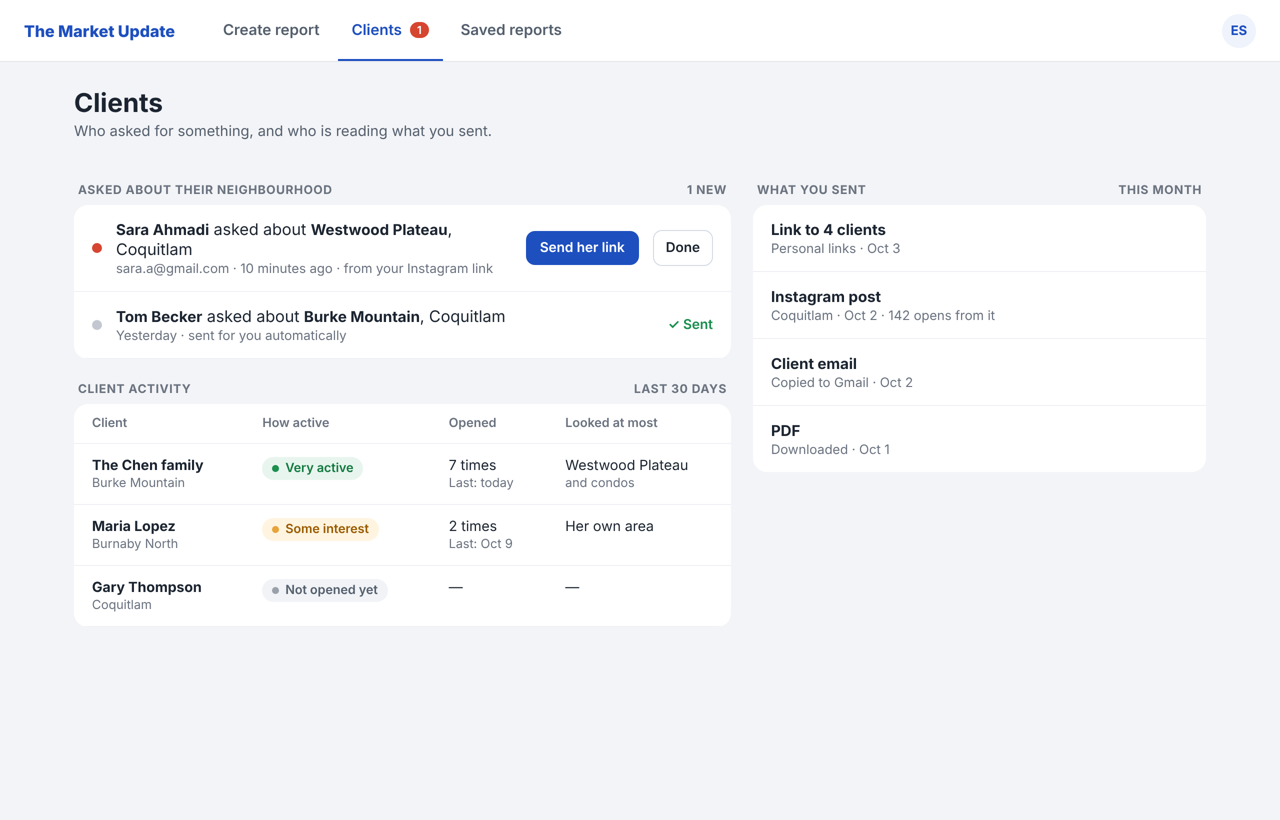
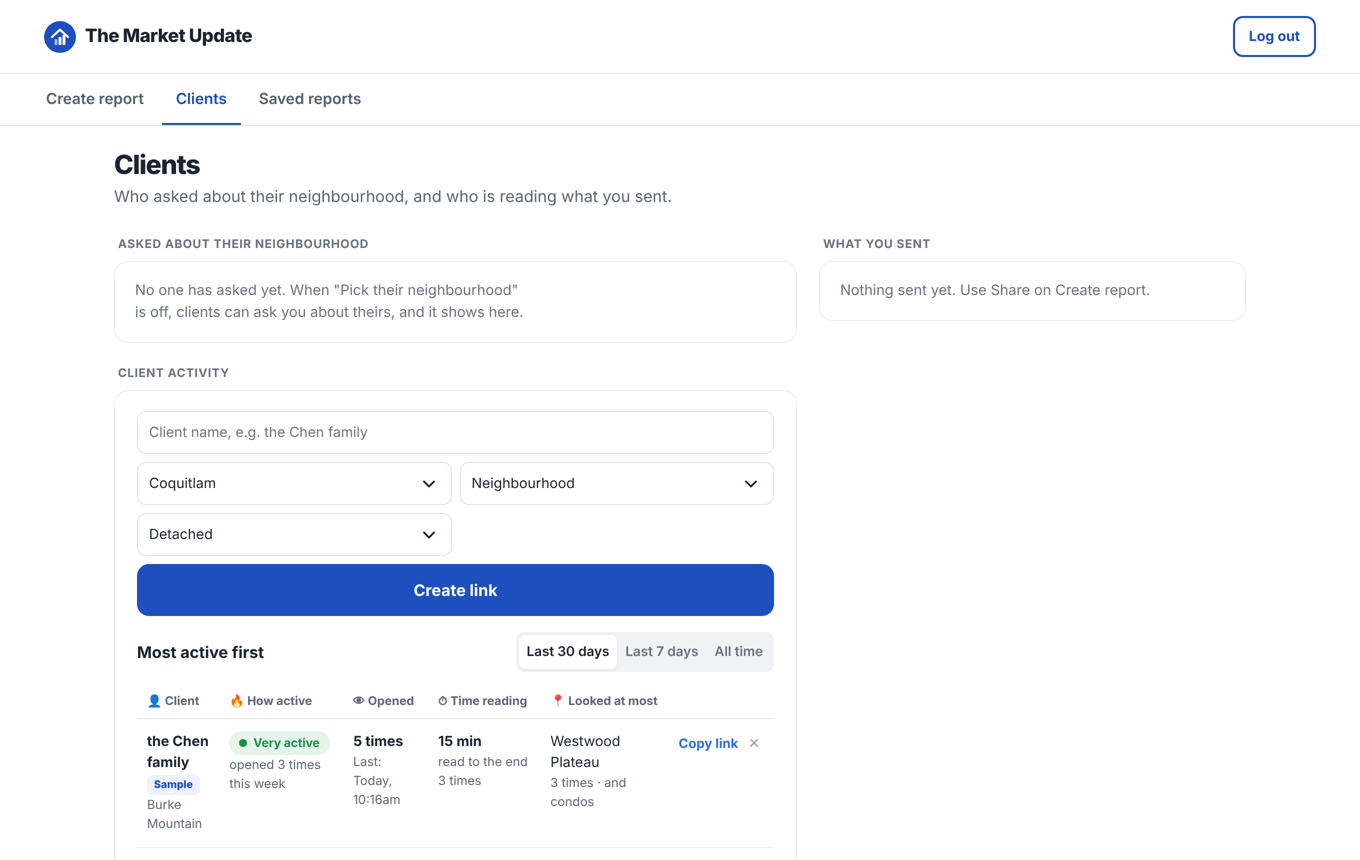
P10 Clients and P11 Saved reports: top tabs, Save button, neighbourhood requests
Claude-Session: https://claude.ai/code/session_01GAE8No9vXW39qViYX3Zjiy

diff --git a/public/js/app.js b/public/js/app.js
@@ -276,7 +276,7 @@ async function start() {
   if (!P.role && sessionStorage.getItem('mup_role')) { P.role = sessionStorage.getItem('mup_role') === 'broker' ? 'broker' : 'realtor'; dirty.add('role'); }
   if (!active) return sessionStorage.getItem('mup_previewed') && P.name ? showPlans() : showPreview();
   sessionStorage.removeItem('mup_want'); sessionStorage.removeItem('mup_went'); sessionStorage.removeItem('mup_previewed');
-  await loadHistory(); show(qs.get('view') || 'create');
+  await loadHistory(); show(qs.get('view') || 'create'); loadReqN();
   const igs = qs.get('ig'); if (igs) { alertMsg({ connected: 'Instagram connected.', cancelled: 'Instagram was not connected.', failed: 'We could not connect Instagram. Please try again.' }[igs] || '', igs !== 'connected'); history.replaceState(null, '', '/app?view=account'); }
 }
 $('#logout').onclick = () => { keep(null); location.href = '/'; };
@@ -285,14 +285,22 @@ let toastT; const alertMsg = (t, bad) => { if (!t) return; let m = $('#toast'); 
   m.textContent = t; m.className = bad ? 'bad on' : 'on'; clearTimeout(toastT); toastT = setTimeout(() => (m.className = bad ? 'bad' : ''), 3200); };
 
 /* ---------- the three pages: Create, My reports, Account ---------- */
-function drawNav() { const n = $('#subnav'); if (!n) return;
-  n.innerHTML = `<div class="sn" role="tablist">${[['create', 'Create'], ['history', `My reports${HIST.length ? ` <span class="cnt">${HIST.length}</span>` : ''}`], ['account', 'Account']].map(([k, l]) => `<button type="button" role="tab" data-view="${k}" aria-selected="${view === k}">${l}</button>`).join('')}</div>`; }
+// The three tabs at the top of every page: Create report · Clients · Saved reports (Account is under the agent's photo).
+let REQN = 0;
+const tabsHtml = () => (isPro() ? [['create', 'Create report'], ['clients', `Clients${REQN ? ` <span class="rqn">${REQN}</span>` : ''}`], ['saved', 'Saved reports']] : [['create', 'Create report'], ['saved', 'Saved reports']])
+  .map(([k, l]) => `<button type="button" role="tab" data-view="${k}" aria-selected="${view === k}">${l}</button>`).join('');
+function drawNav() { const n = $('#subnav'); if (n) n.innerHTML = `<div class="sn" role="tablist">${tabsHtml()}${view === 'account' ? '<button type="button" role="tab" data-view="account" aria-selected="true">Account</button>' : ''}</div>`;
+  const t = $('#dtabs'); if (t) t.innerHTML = tabsHtml(); }
+// How many clients asked about their neighbourhood and are waiting (the red count on Clients).
+async function loadReqN() { if (cfg.demo || !isPro()) return; try { REQN = ((await api('/api/links?only=requests')).requests || []).length; drawNav(); } catch {} }
 function show(v) {
-  view = ['create', 'history', 'account'].includes(v) ? v : 'create'; saveNow();
+  if (v === 'history') v = 'saved';
+  view = ['create', 'clients', 'saved', 'account'].includes(v) ? v : 'create'; if (view === 'clients' && !isPro()) view = 'create'; saveNow();
+  try { history.replaceState(null, '', view === 'create' ? '/app' : `/app?view=${view}`); } catch {}
   main.innerHTML = `<div class="subnav" id="subnav"></div><div id="page" class="pg-${view}"></div>`; drawNav();
   $('#subnav').onclick = (e) => { const b = e.target.closest('[data-view]'); if (b && b.dataset.view !== view) show(b.dataset.view); };
   document.body.classList.toggle('oncreate', view === 'create');
-  if (view === 'history') drawHistory(); else if (view === 'account') drawAccount(); else dashboard();
+  if (view === 'saved') drawSaved(); else if (view === 'clients') drawClients(); else if (view === 'account') drawAccount(); else dashboard();
   window.scrollTo(0, 0);
 }
 /* saving: only what changed, shortly after the last change */
@@ -351,17 +359,19 @@ function dashboard() {
   if (!D) { pg.innerHTML = `<div class="c">${steps(4)}<h2>Your first report is on its way</h2><p class="lead">We will email you as soon as this month's report is published.</p></div>`; return; }
   $('#subnav').hidden = true; PS = { m: P.name ? 'list' : 'details', k: null };
   const notes = [cfg.demo ? 'Preview mode: nothing is saved to a server and no payment is taken.' : '', noticeOk, qs.has('welcome') ? `You are subscribed${P.name ? ', ' + P.name.trim().split(/\s+/)[0] : ''}. Welcome aboard.` : ''].filter(Boolean);
-  pg.innerHTML = `<div class="dbar"><div class="crumb"><button type="button" class="lk" data-go="history">Your reports</button><span>/</span><b>${esc(D.month)}</b><span class="ok small" id="saved"></span></div>
-    <div class="dact"><span id="laysel"></span><span class="shwrap"><button type="button" class="btn sm ghost" id="sharebtn">${sv('share')}Share</button></span><button type="button" class="btn sm" id="pvbtn">${EYE}Preview</button>
+  pg.innerHTML = `<div class="dbar"><div class="crumb"><nav class="dtabs" id="dtabs" role="tablist"></nav><span class="ok small" id="saved"></span></div>
+    <div class="dact"><span id="laysel"></span>${isPro() ? '<button type="button" class="btn sm ghost" id="savebtn" title="Save this report in Saved reports">Save</button>' : ''}<span class="shwrap"><button type="button" class="btn sm ghost" id="sharebtn">${sv('share')}Share</button></span><button type="button" class="btn sm" id="pvbtn">${EYE}Preview</button>
     <span class="mewrap"><button type="button" class="me" id="mebtn" aria-haspopup="menu"><span class="av">${avatar()}</span><span class="who"><b>${esc(P.name || 'Add your name')}</b><small>${esc(P.brokerage || '')}</small></span><span class="car">⌄</span></button></span></div></div>
     <div class="dwrap"><div class="dleft" id="dleft">${notes.map((n) => `<p class="dnote">${esc(n)}</p>`).join('')}${!cfg.demo && P.email_verified === false ? `<p class="dnote warn">Please confirm your email. We sent a link to <b>${esc(P.email || '')}</b>. <a href="#" id="cfmagain">Send it again</a></p>` : ''}
       <div id="rp"></div><div class="zoomc" role="group" aria-label="Zoom"><button type="button" data-z="-" aria-label="Zoom out">−</button><span id="zv">85%</span><button type="button" data-z="+" aria-label="Zoom in">+</button><button type="button" data-z="fit" title="Back to 85%" aria-label="Reset zoom">⤢</button></div></div>
     <aside class="dpanel" id="dpanel"></aside></div>`;
-  noticeOk = ''; drawTop(); preview(); setZoom(ZOOM); wirePanel(); drawPanel(); wireZoom();
+  noticeOk = ''; drawNav(); drawTop(); preview(); setZoom(ZOOM); wirePanel(); drawPanel(); wireZoom();
   pg.onclick = (e) => { const g = e.target.closest('[data-go]'); if (g) return show(g.dataset.go);
     if (e.target.id === 'cfmagain') { e.preventDefault(); return sendConfirm(P.email).then((ok) => alertMsg(ok ? 'Sent. Check your inbox.' : 'Please wait a minute and try again.', !ok)); }
     const z = e.target.closest('[data-z]'); if (z) return setZoom(z.dataset.z === 'fit' ? 0.85 : ZOOM + (z.dataset.z === '+' ? 0.1 : -0.1));
     if (e.target.closest('#pvbtn')) { if (!ready()) return; saveNow(); return act('link', record('link'), 'open'); }
+    if (e.target.closest('[data-view]')) { const v = e.target.closest('[data-view]').dataset.view; if (v !== view) show(v); return; }
+    if (e.target.closest('#savebtn')) return saveReport();
     if (e.target.closest('#sharebtn')) return shareDrop(e.target.closest('#sharebtn'));
     if (e.target.closest('#mebtn')) return meMenu(e.target.closest('#mebtn')); };
   pg.onchange = (e) => { if (e.target.id !== 'layout') return; const t = P.show?.template;
@@ -588,7 +598,7 @@ function wirePanel() {
     if (d.vw) return setLayout({ view: d.vw });
     if (b.id === 'ltreset') { if (!confirm('Go back to the default sections and order?')) return; return setLayout({ ...DEFAULT_LAYOUT, areas: L.areas }); }
     if (b.id === 'savetpl') { P.show = { ...showOf(P), ...snap(cur()), mode: 'template', template: snap(cur()) }; touch('show'); drawTop(); drawPanel(); return alertMsg('Saved as your template. Every new month opens this way.'); }
-    if ('plinks' in d) return personalLinks();
+    if ('plinks' in d) return show('clients');
     if (b.id === 'up4') return portal();
     if (d.rm) { P[d.rm] = ''; touch(d.rm); thumbs(); later(); return alertMsg(`Your ${d.rm} was removed.`); } });
   el.addEventListener('change', async (e) => { const t = e.target, k = PS.k, L = cur();
@@ -634,7 +644,7 @@ function fitMenu(m, btn) {
 function meMenu(btn) {
   if (btn.parentElement.querySelector('.amenu')) return closeMenu(); closeMenu();
   const m = document.createElement('div'); m.className = 'shmenu amenu'; m.setAttribute('role', 'menu');
-  m.innerHTML = [['details', 'Your details'], ['account', 'Account and billing'], ['history', 'Your reports'], ['logout', 'Log out']].map(([k, l]) => `${k === 'logout' ? '<hr>' : ''}<button type="button" role="menuitem" data-mm="${k}">${l}</button>`).join('');
+  m.innerHTML = [['details', 'Your details'], ['account', 'Account and billing'], ['saved', 'Saved reports'], ['logout', 'Log out']].map(([k, l]) => `${k === 'logout' ? '<hr>' : ''}<button type="button" role="menuitem" data-mm="${k}">${l}</button>`).join('');
   btn.parentElement.appendChild(m); fitMenu(m, btn);
   m.onclick = (e) => { const b = e.target.closest('[data-mm]'); if (!b) return; closeMenu(); const k = b.dataset.mm;
     if (k === 'details') { PS = { m: 'details', k: PS.k }; return drawPanel(); } if (k === 'logout') return $('#logout').click(); show(k); };
@@ -646,14 +656,14 @@ function shareDrop(btn) {
   if (btn.parentElement.querySelector('.shmenu')) return closeMenu(); if (!ready()) return;
   saveNow(); closeMenu(); const pro = isPro(), m = document.createElement('div'); m.className = 'shmenu dmenu'; m.setAttribute('role', 'menu');
   const it = (k, ic, l, sub, off, pv) => `<button type="button" role="menuitem" data-s="${k}"${off ? ' disabled' : ''}><span class="i">${sv(ic)}</span><span><b>${l}</b>${sub ? `<small>${sub}</small>` : ''}</span>${pv ? `<em>${off ? 'Pro' : 'Preview ›'}</em>` : ''}</button>`;
-  m.innerHTML = `<p class="mh">Send your report</p>${it('copy', 'link', 'Copy link', 'Paste it in a text, email or post')}${it('email', 'mail', 'Email for your clients', 'A finished message for Gmail or your CRM')}${it('qr', 'qr', 'QR code', 'For open houses, flyers and signs')}${it('plinks', 'link', 'Personal links', 'One link per client, with their name and area', !pro)}${isPhone() ? it('native', 'share', 'Share from this phone') : ''}
+  m.innerHTML = `<p class="mh">Send your report</p>${it('copy', 'link', 'Copy link', 'Paste it in a text, email or post')}${it('email', 'mail', 'Email for your clients', 'A finished message for Gmail or your CRM')}${it('qr', 'qr', 'QR code', 'For open houses, flyers and signs')}${it('plinks', 'link', 'Personal links', 'One link per client, with their name and neighbourhood', !pro)}${isPhone() ? it('native', 'share', 'Share from this phone') : ''}
     <hr><p class="mh">Images and PDF</p>${it('post', 'ig', 'Instagram post', 'Square image', !pro, 1)}${it('story', 'ig', 'Instagram story', 'Tall image', !pro, 1)}${it('pdf', 'dl', 'PDF', 'To print or attach', !pro, 1)}`;
   btn.parentElement.appendChild(m); fitMenu(m, btn);
   m.onclick = (e) => { const b = e.target.closest('[data-s]'); if (!b || b.disabled) return; const k = b.dataset.s; closeMenu();
     if (k === 'copy') return act('link', record('link'));
     if (k === 'email') return act('email', record('email'));
     if (k === 'native') { const t = shareText(reportLink(location.origin, P, 'Greater Vancouver')); navigator.share({ title: t.subject, text: t.short.replace(/: \S+$/, '.'), url: t.url }).catch(() => {}); return record('link').catch(() => {}); }
-    if (k === 'plinks') return personalLinks();
+    if (k === 'plinks') return show('clients');
     if (k === 'qr') return record('link').then((x) => qrModal({ title: 'Your report QR code', text: 'Anyone who scans this with a phone camera opens your report.', url: linkOf(x), file: `${P.slug}-QR.png` })).catch((er) => alertMsg(er.message, true));
     openPreview(k); };
   setTimeout(() => document.addEventListener('click', function off(ev) { if (!ev.target.closest('.dmenu') && !ev.target.closest('#sharebtn')) { closeMenu(); document.removeEventListener('click', off, true); } }, true));
@@ -671,12 +681,13 @@ function demoClient(now = Date.now()) {
   const views = [{ hood: 'Westwood Plateau', kind: 'compare', created_at: at(0, 1) }, { hood: 'Westwood Plateau', kind: 'peek', created_at: at(1, 3) }, { hood: 'Coquitlam West', kind: 'peek', created_at: at(1, 3) }, { hood: 'Westwood Plateau', kind: 'peek', created_at: at(9, 5) }];
   return { id: 'sample', name: 'the Chen family', city: 'Coquitlam', hood: 'Burke Mountain', type: 'd', opens: visits.length, last_opened_at: visits[0].started_at, sample: true, visits, views };
 }
-async function personalLinks() {
+// host: draw it as the Clients page (P10) inside that element; without it, as a window.
+async function personalLinks(host) {
   if (!isPro()) return alertMsg('Personal links are part of Pro.', true);
-  if (!ready()) return;
-  document.querySelector('.plm')?.remove(); const W = document.createElement('div'); W.className = 'plm'; document.body.appendChild(W);
-  let data = { items: [], weekly: true, top: [], general: 0 }, city = defaultCity(D, cur().conf.hoods || {}, cur().areas), err = '', days = 30, open = null, loading = true;
-  const close = () => { W.remove(); document.removeEventListener('keydown', k1); }, k1 = (e) => e.key === 'Escape' && (open ? (open = null, draw()) : close()); document.addEventListener('keydown', k1);
+  if (!host && !ready()) return;
+  let W = host; if (!host) { document.querySelector('.plm')?.remove(); W = document.createElement('div'); W.className = 'plm'; document.body.appendChild(W); }
+  let data = { items: [], weekly: true, top: [], general: 0, requests: [] }, city = defaultCity(D, cur().conf.hoods || {}, cur().areas), err = '', days = 30, open = null, loading = true;
+  const close = () => { if (host) return; W.remove(); document.removeEventListener('keydown', k1); }, k1 = (e) => e.key === 'Escape' && (open ? (open = null, draw()) : close()); if (!host) document.addEventListener('keydown', k1);
   async function load() {
     loading = true;
     if (cfg.demo) { let mine = []; try { mine = JSON.parse(localStorage.getItem(PL_DEMO) || '[]'); } catch {}
@@ -713,11 +724,24 @@ async function personalLinks() {
       ${a.recent.length ? `<span class="lbl2">Recent visits</span><ul class="ca-tl">${a.recent.map((r) => `<li><b>${esc(when(r.at))}</b> · ${mins(r.seconds)}${r.device ? ` on a ${r.device}` : ''}${r.did.length ? ` · ${r.did.map(esc).join(' · ')}` : ''}</li>`).join('')}</ul>` : ''}`}
       ${a.why ? `<div class="ca-why"><b>Why it matters:</b> ${esc(a.why)}</div>` : ''}
       <div class="ca-act"><a class="btn" href="mailto:?subject=${encodeURIComponent(`Your ${x.hood} market report`)}&body=${encodeURIComponent(note)}">✉ Send them a note</a><button type="button" class="btn ghost" data-plc="${esc(x.id)}">Copy their link</button></div>`; }
+  // P10: clients who asked about their neighbourhood (S5 Ask), newest first.
+  function reqHtml() {
+    const rq = (data.requests || []).filter((r) => r.status !== 'done').slice(0, 20), done = (data.requests || []).filter((r) => r.status === 'done').length;
+    return `<div class="cp-l">Asked about their neighbourhood ${rq.filter((r) => r.status === 'new').length ? `<span>${rq.filter((r) => r.status === 'new').length} new</span>` : ''}</div>
+      <div class="cp-card">${rq.length ? rq.map((r) => `<div class="rq"><span class="rq-d${r.status === 'new' ? ' on' : ''}"></span><div class="rq-t"><b>${esc(r.name)}</b> asked about <b>${esc(r.hood)}</b>, ${esc(r.city)}<small>${esc(r.email)} · ${esc(when(r.created_at))}${r.status === 'sent' && r.mode === 'send' ? ' · sent for you automatically' : ''}</small></div>
+        ${r.status === 'new' ? `<button type="button" class="btn sm" data-rqs="${esc(r.id)}">Send their link</button><button type="button" class="btn sm ghost" data-rqd="${esc(r.id)}">Done</button>` : '<span class="rq-ok">✓ Sent</span>'}</div>`).join('')
+        : `<p class="cp-empty">No one has asked yet. When "Pick their neighbourhood" is off, clients can ask you about theirs, and it shows here.</p>`}</div>${done ? `<p class="small muted cp-note">${done === 1 ? '1 request' : `${done} requests`} marked done.</p>` : ''}`;
+  }
+  // P10: what the agent sent this month and before (links, emails, PDFs, images), from their history.
+  function sentHtml() {
+    const list = HIST.filter((x) => x.kind !== 'save').slice(0, 10);
+    return `<div class="cp-card">${list.length ? list.map((it) => `<div class="rq"><span class="rq-i">${icon(it.kind)}</span><div class="rq-t"><b>${esc(KIND[it.kind][0])}</b><small>${esc(it.area)} · ${esc(when(it.created_at))}</small></div></div>`).join('')
+      : '<p class="cp-empty">Nothing sent yet. Use Share on Create report.</p>'}</div>`;
+  }
   function draw() {
     const L = cur(), names = hoodNames(D, city), mOpt = MK.length > 1;
     const x = open && data.items.find((i) => i.id === open);
-    W.innerHTML = `<div class="plbox cabox" role="dialog" aria-modal="true" aria-labelledby="plt"><div class="plh"><div><h3 id="plt">Client activity</h3><p class="muted small">Each client gets their own link with their name and neighbourhood. It updates itself every month, so send it once. Then see who is actively looking.</p></div><button type="button" class="x" data-plx aria-label="Close">✕</button></div>
-      ${x ? detail(x) : `<div class="plf${mOpt ? ' plf6' : ''}"><input type="text" id="pln" maxlength="60" placeholder="Client name, e.g. the Chen family">
+    const inner = x ? detail(x) : `<div class="plf${mOpt ? ' plf6' : ''}"><input type="text" id="pln" maxlength="60" placeholder="Client name, e.g. the Chen family">
         <select id="plcity" aria-label="City">${hoodCities(D).map((c) => `<option${c === city ? ' selected' : ''}>${esc(c)}</option>`).join('')}</select>
         <select id="plh" aria-label="Neighbourhood"><option value="">Neighbourhood</option>${names.map((n) => `<option>${esc(n)}</option>`).join('')}</select>
         <select id="plt2" aria-label="Home type">${HTYPES.map(([t, l]) => `<option value="${t}">${l}</option>`).join('')}</select>
@@ -730,9 +754,17 @@ async function personalLinks() {
       <p class="small muted">Tap a client to see what they read. ${data.general ? `Your general link (Instagram, your website) was opened ${timesW(data.general)} in the ${perName.replace('all time', 'last year')}. We can't tell who opened it.` : 'Your general link (Instagram, your website) is counted only as totals. We can’t tell who opened it.'}</p>
       ${data.top?.length ? `<p class="small muted">Most-viewed neighbourhoods (everyone who opened your report): ${data.top.map(([h, n]) => `${esc(h)} (${n})`).join(', ')}.</p>` : ''}
       <label class="tgr"><span>Email me every Monday with which clients were actively looking</span><input type="checkbox" data-plw${data.weekly !== false ? ' checked' : ''}><span class="sw2" aria-hidden="true"></span></label>
-      <div class="plsoon"><b>Add many at once</b> <span class="pltag2">Later</span><br>Upload a contact list or connect your CRM (like Follow Up Boss) to make links for everyone automatically.</div>`}</div>`;
+      <div class="plsoon"><b>Add many at once</b> <span class="pltag2">Later</span><br>Upload a contact list or connect your CRM (like Follow Up Boss) to make links for everyone automatically.</div>`;
+    W.innerHTML = host ? `<div class="cp"><div class="cp-h"><h1>Clients</h1><p class="muted">Who asked about their neighbourhood, and who is reading what you sent.</p></div>
+      <div class="cp-cols"><div class="cp-main">${x ? '' : reqHtml()}<div class="cp-l">Client activity</div><div class="plbox cabox capb">${inner}</div></div>${x ? '' : `<aside class="cp-side"><div class="cp-l">What you sent</div>${sentHtml()}</aside>`}</div></div>`
+      : `<div class="plbox cabox" role="dialog" aria-modal="true" aria-labelledby="plt"><div class="plh"><div><h3 id="plt">Client activity</h3><p class="muted small">Each client gets their own link with their name and neighbourhood. It updates itself every month, so send it once. Then see who is actively looking.</p></div><button type="button" class="x" data-plx aria-label="Close">✕</button></div>${inner}</div>`;
   }
-  W.onclick = async (e) => { if (e.target === W || e.target.closest('[data-plx]')) return close(); const b = e.target.closest('button');
+  W.onclick = async (e) => { if ((!host && e.target === W) || e.target.closest('[data-plx]')) return close(); const b = e.target.closest('button');
+    if (b && (b.dataset.rqs || b.dataset.rqd)) { const id = b.dataset.rqs || b.dataset.rqd; b.disabled = true;
+      try { const j = await api('/api/links', { action: 'request', id, do: b.dataset.rqs ? 'send' : 'done' });
+        data.requests = data.requests.map((r) => (r.id === id ? j.request : r)); if (j.item && !data.items.some((i) => i.id === j.item.id)) data.items = [...data.items, j.item];
+        REQN = data.requests.filter((r) => r.status === 'new').length; drawNav(); alertMsg(b.dataset.rqs ? `Sent. ${j.request.name} got their ${j.request.hood} link from you.` : 'Marked done.'); }
+      catch (er) { b.disabled = false; return alertMsg(er.message, true); } return draw(); }
     if (!b) { const r = e.target.closest('[data-cao]'); if (r && !e.target.closest('a')) { open = r.dataset.cao; draw(); W.querySelector('.plbox').scrollTop = 0; } return; }
     if ('cab' in b.dataset) { open = null; return draw(); }
     if (b.dataset.cad) { days = +b.dataset.cad; draw(); await load(); return draw(); }
@@ -750,7 +782,7 @@ async function personalLinks() {
   W.onchange = (e) => { const t = e.target;
     if (t.id === 'plcity') { city = t.value; const n = $('#pln').value; draw(); $('#pln').value = n; }
     if (t.matches('[data-plw]')) { data.weekly = t.checked; if (!cfg.demo) api('/api/links', { action: 'weekly', on: t.checked }).catch((er) => alertMsg(er.message, true)); alertMsg(t.checked ? 'Monday email is on.' : 'Monday email is off.'); } };
-  draw(); await load(); draw(); $('#pln')?.focus();
+  draw(); await load(); if (host) { REQN = (data.requests || []).filter((r) => r.status === 'new').length; drawNav(); } draw(); if (!host) $('#pln')?.focus();
 }
 // The preview window: see the image (or PDF) first, choose what's on it, then download, post or send to a phone.
 async function openPreview(kind) {
@@ -808,30 +840,31 @@ function confirmPost(W, K, get) {
 }
 
 /* ---------- My reports ---------- */
-function drawHistory() {
-  const pg = $('#page'), groups = { all: () => true, link: (k) => k === 'link', email: (k) => k === 'email', pdf: (k) => k === 'pdf', social: (k) => ['post', 'story', 'caption'].includes(k) };
-  const list = HIST.filter((x) => groups[filter](x.kind)), day = (d) => { const t = new Date(d), n = new Date(), y = new Date(Date.now() - 864e5);
-    return t.toDateString() === n.toDateString() ? 'Today' : t.toDateString() === y.toDateString() ? 'Yesterday' : t.toLocaleDateString('en-CA', { weekday: 'long', month: 'long', day: 'numeric', year: 'numeric' }); };
-  const time = (d) => new Date(d).toLocaleTimeString('en-CA', { hour: 'numeric', minute: '2-digit' });
-  const hidden = (it) => { const sh = it.settings?.show; const off = sh ? Object.keys(HIDE_NAMES).filter((k) => sh[k] === false).map((k) => HIDE_NAMES[k]) : []; return off.length ? `Hiding ${off.join(', ')}` : 'Showing everything'; };
-  let last = '', rows = '';
-  for (const it of list) { const d = day(it.created_at); if (d !== last) { rows += `<h4 class="dayh">${d}</h4>`; last = d; }
-    const live = ['link', 'email', 'caption'].includes(it.kind);
-    rows += `<div class="hrow" data-id="${it.id}"><span class="ic">${icon(it.kind)}</span><div class="hi"><b>${esc(it.area)} · ${KIND[it.kind][0]}</b>
-      <span>${time(it.created_at)} · ${live ? 'Always shows the newest numbers' : `${esc(it.month)} numbers`}</span>${isPro() ? `<span class="hid">${hidden(it)}</span>` : ''}</div>
-      <div class="ab">${it.kind === 'link' ? '<button class="btn sm ghost" data-verb="open">Open</button>' : ''}<button class="btn sm${it.kind === 'link' ? '' : ' ghost'}" data-verb="go">${KIND[it.kind][1]}</button>
-      <button class="rm2" data-verb="del" aria-label="Remove from My reports" title="Remove"><svg viewBox="0 0 24 24" width="16" height="16" fill="none" stroke="currentColor" stroke-width="2" stroke-linecap="round" aria-hidden="true"><path d="M4 7h16M10 11v6M14 11v6M6 7l1 13h10l1-13M9 7V4h6v3"/></svg></button></div></div>`; }
-  pg.innerHTML = `<div class="hist"><div class="hhead"><div><h2>My reports</h2><p class="muted">Everything you have created, newest first. Links and emails always show the newest numbers. PDFs and images keep the month they were made from.</p></div>
-      ${HIST.length ? '<button class="btn" data-go="create">Create new</button>' : ''}</div>
-    ${HIST.length ? `<div class="chipsel" role="group" aria-label="Show">${[['all', 'All'], ['link', 'Links'], ['email', 'Emails'], ['pdf', 'PDFs'], ['social', 'Social']].map(([k, l]) => `<button type="button" data-f="${k}" aria-pressed="${filter === k}">${l}</button>`).join('')}</div>` : ''}
-    ${list.length ? `<div class="hlist">${rows}</div>` : `<div class="empty">${icon('pdf')}<b>${HIST.length ? 'Nothing of this type yet.' : 'Nothing here yet.'}</b><span>Create a link, email, PDF or image and it will be saved here with the date and time.</span><button class="btn" data-go="create">Create your first one</button></div>`}</div>`;
-  pg.onclick = async (e) => { const g = e.target.closest('[data-go]'); if (g) return show(g.dataset.go);
-    const f = e.target.closest('[data-f]'); if (f) { filter = f.dataset.f; return drawHistory(); }
-    const b = e.target.closest('[data-verb]'); if (!b) return; const it = HIST.find((x) => x.id === b.closest('.hrow').dataset.id); if (!it) return;
-    if (b.dataset.verb === 'del') { HIST = HIST.filter((x) => x.id !== it.id); if (cfg.demo) { try { localStorage.setItem(demoKey, JSON.stringify(HIST)); } catch {} } else fetch(`/api/exports?id=${encodeURIComponent(it.id)}`, { method: 'DELETE', headers: { authorization: `Bearer ${await token()}` } });
-      drawNav(); drawHistory(); return alertMsg('Removed from My reports.'); }
-    act(it.kind, Promise.resolve(it), b.dataset.verb === 'open' ? 'open' : null); };
+/* ---------- P11 Saved reports: reports the agent saved with Save on Create report ---------- */
+// The name of a saved report: the cities it shows ("Coquitlam and Greater Vancouver"), or "<client> · <neighbourhood>".
+const savedName = (it) => { const a = it.settings?.show?.areas || [it.area]; return a.length === 1 ? a[0] : a.length === 2 ? a.join(' and ') : `${a.slice(0, -1).join(', ')} and ${a[a.length - 1]}`; };
+const savedWhen = (d) => { const x = new Date(d), t = new Date();
+  return x.toDateString() === t.toDateString() ? `Saved today, ${x.toLocaleTimeString('en-CA', { hour: 'numeric', minute: '2-digit' }).replace(/\s?([ap])\.?m\.?/i, (_, m) => m.toLowerCase() + 'm')}`
+    : `Saved ${x.toLocaleDateString('en-CA', { month: 'short', day: 'numeric', ...(x.getFullYear() !== t.getFullYear() ? { year: 'numeric' } : {}) })}`; };
+function drawSaved() {
+  const pg = $('#page'), list = HIST.filter((x) => x.kind === 'save'), groups = [];
+  for (const it of list) { const m = new Date(it.created_at).toLocaleDateString('en-CA', { month: 'long', year: 'numeric' }); let g = groups.find((x) => x.m === m); if (!g) groups.push((g = { m, items: [] })); g.items.push(it); }
+  pg.innerHTML = `<div class="c sp"><h1>Saved reports</h1><p class="muted">Reports you saved. Tap one to open it.</p>
+    ${groups.length ? groups.map((g) => `<div class="cp-l">${esc(g.m)}</div><div class="cp-card">${g.items.map((it) => `<button type="button" class="sr2" data-open="${esc(it.id)}"><span class="rq-t"><b>${esc(savedName(it))}</b><small>${esc(savedWhen(it.created_at))}</small></span><span class="sr2-o">Open</span><span class="sr2-c" aria-hidden="true">›</span></button>`).join('')}</div>`).join('')
+      : `<div class="cp-card"><p class="cp-empty">Nothing saved yet. On Create report, tap <b>Save</b> and your report shows up here.</p></div>`}</div>`;
+  pg.onclick = (e) => { const b = e.target.closest('[data-open]'); if (!b) return; const it = HIST.find((x) => x.id === b.dataset.open); if (it) window.open(linkOf(it), '_blank'); };
 }
+// Save on Create report: keeps the report as it is now (cities, sections, settings) in Saved reports. Saving the same report again just updates its time.
+async function saveReport() {
+  if (!ready()) return; saveNow(); const b = $('#savebtn'); if (b) b.disabled = true;
+  try { await record('save', layoutOf(agent(), D).areas[0]);
+    document.querySelector('.bdtoast')?.remove(); const t = document.createElement('div'); t.className = 'bdtoast'; t.setAttribute('role', 'status');
+    t.innerHTML = '<span>✓ Saved. Find it any time in <b>Saved reports</b></span><button type="button">Open</button>'; document.body.appendChild(t);
+    t.querySelector('button').onclick = () => { t.remove(); show('saved'); }; setTimeout(() => t.remove(), 5000);
+  } catch (e) { alertMsg(e.message, true); } if (b) b.disabled = false;
+}
+/* ---------- P10 Clients: neighbourhood requests, client activity, what you sent ---------- */
+function drawClients() { const pg = $('#page'); pg.innerHTML = '<div class="c cpw"></div>'; personalLinks(pg.firstElementChild); }
 
 /* ---------- Account: log in details, password, billing ---------- */
 async function drawAccount() {

diff --git a/lib/routes/ask.js b/lib/routes/ask.js
@@ -6,6 +6,14 @@ import { cleanClients } from '../../public/js/layout.js';
 // "Just tell me": the agent gets an email and the request waits in Clients (P10).
 const TXT = (v, n) => String(v || '').replace(/[<>]/g, '').trim().slice(0, n);
 const EMAIL = /^[^\s@]+@[^\s@]+\.[^\s@]{2,}$/;
+// The email a client gets with their own link, from the agent (replies go to the agent). Also used by Clients (P10) "Send their link".
+export const wrapEmail = (site) => (inner) => `<div style="font-family:Arial,sans-serif;font-size:16px;line-height:1.6;color:#1b2430;max-width:560px">${emailLogo(site)}${inner}<p style="color:#6b7380;font-size:13px">${SITE_NAME}</p></div>`;
+export function clientEmail(site, p, r, link) {
+  const url = `${site}/r/${p.slug}?p=${link.id}`, who = p.name || 'Your agent', agentFirst = who.trim().split(/\s+/)[0], first = r.name.split(/\s+/)[0], place = `${r.hood}, ${r.city}`;
+  return { to: r.email, replyTo: p.contact_email || p.email, subject: `Your ${r.hood} numbers from ${who}`,
+    html: wrapEmail(site)(`<p>Hi ${esc(first)},</p><p>Here is your own market report for <b>${esc(place)}</b>: the benchmark price and how it changed over 1, 5 and 10 years. It updates itself every month.</p><p><a href="${url}" style="display:inline-block;background:#1d4fbf;color:#fff;text-decoration:none;font-weight:bold;border-radius:10px;padding:12px 20px">Open my ${esc(r.hood)} report</a></p><p>Questions? Just reply to this email.</p><p>${esc(who)}</p><p style="color:#6b7380;font-size:13px">You asked for this on ${esc(agentFirst)}'s market report. Reply "stop" and you won't hear about it again.</p>`),
+    text: `Hi ${first},\n\nHere is your own market report for ${place}. It updates itself every month:\n${url}\n\nQuestions? Just reply to this email.\n\n${who}\n\nYou asked for this on ${agentFirst}'s market report. Reply "stop" and you won't hear about it again.` };
+}
 const esc = (s) => String(s).replace(/[&<>"]/g, (c) => ({ '&': '&amp;', '<': '&lt;', '>': '&gt;', '"': '&quot;' })[c]);
 
 export default async function handler(req, res) {
@@ -35,23 +43,18 @@ export default async function handler(req, res) {
     if (same.length) return json(res, 200, { ok: true, mode: same[0].mode, url: same[0].link_id ? url(same[0].link_id) : null });
     if (today.length >= 60) return json(res, 429, { error: 'Please try again tomorrow.' });
 
-    const agentFirst = (p.name || '').trim().split(/\s+/)[0] || 'Your agent', who = p.name || 'Your agent', place = `${r.hood}, ${r.city}`;
+    const place = `${r.hood}, ${r.city}`;
     let link = null;
     if (C.reply === 'send') {
       [link] = await db('personal_links', { method: 'POST', data: { id: crypto.randomBytes(6).toString('base64url'), user_id: p.id, name: r.name, city: r.city, hood: r.hood, type: 'd' } });
     }
     const [row] = await db('hood_requests', { method: 'POST', data: { id: crypto.randomBytes(6).toString('base64url'), user_id: p.id, ...r, mode: C.reply, status: link ? 'sent' : 'new', link_id: link?.id || null } });
 
-    const agentTo = p.contact_email || p.email, wrap = (inner) => `<div style="font-family:Arial,sans-serif;font-size:16px;line-height:1.6;color:#1b2430;max-width:560px">${emailLogo(site)}${inner}<p style="color:#6b7380;font-size:13px">${SITE_NAME}</p></div>`;
-    const msgs = [];
-    if (link) {
-      msgs.push({ to: r.email, replyTo: agentTo, subject: `Your ${r.hood} numbers from ${who}`,
-        html: wrap(`<p>Hi ${esc(r.name.split(/\s+/)[0])},</p><p>Here is your own market report for <b>${esc(place)}</b>: the benchmark price and how it changed over 1, 5 and 10 years. It updates itself every month.</p><p><a href="${url(link.id)}" style="display:inline-block;background:#1d4fbf;color:#fff;text-decoration:none;font-weight:bold;border-radius:10px;padding:12px 20px">Open my ${esc(r.hood)} report</a></p><p>Questions? Just reply to this email.</p><p>${esc(who)}</p><p style="color:#6b7380;font-size:13px">You asked for this on ${esc(agentFirst)}'s market report. Reply "stop" and you won't hear about it again.</p>`),
-        text: `Hi ${r.name.split(/\s+/)[0]},\n\nHere is your own market report for ${place}. It updates itself every month:\n${url(link.id)}\n\nQuestions? Just reply to this email.\n\n${who}\n\nYou asked for this on ${agentFirst}'s market report. Reply "stop" and you won't hear about it again.` });
-    }
+    const agentTo = p.contact_email || p.email, wrap = wrapEmail(site);
+    const msgs = link ? [clientEmail(site, p, r, link)] : [];
     if (agentTo) msgs.push({ to: agentTo, replyTo: r.email, subject: link ? `${r.name} asked about ${r.hood}. We sent their link.` : `${r.name} asked about ${r.hood}`,
-      html: wrap(`<p><b>${esc(r.name)}</b> (${esc(r.email)}) asked about <b>${esc(place)}</b> on your market report.</p><p>${link ? `We sent them their own link from you: <a href="${url(link.id)}">${url(link.id)}</a>. You'll see when they open it in Clients.` : 'Reply to this email to send them their numbers, or make their personal link in Clients.'}</p><p><a href="${site}/app?tab=clients">Open Clients</a></p>`),
-      text: `${r.name} (${r.email}) asked about ${place} on your market report.\n${link ? `We sent them their own link: ${url(link.id)}` : 'Reply to this email to send them their numbers.'}\n\n${site}/app?tab=clients` });
+      html: wrap(`<p><b>${esc(r.name)}</b> (${esc(r.email)}) asked about <b>${esc(place)}</b> on your market report.</p><p>${link ? `We sent them their own link from you: <a href="${url(link.id)}">${url(link.id)}</a>. You'll see when they open it in Clients.` : 'Reply to this email to send them their numbers, or make their personal link in Clients.'}</p><p><a href="${site}/app?view=clients">Open Clients</a></p>`),
+      text: `${r.name} (${r.email}) asked about ${place} on your market report.\n${link ? `We sent them their own link: ${url(link.id)}` : 'Reply to this email to send them their numbers.'}\n\n${site}/app?view=clients` });
     if (msgs.length) await smtpSend(msgs).catch((e) => console.error('ask email', e));
     json(res, 200, { ok: true, mode: C.reply, url: link ? url(link.id) : null, id: row?.id });
   } catch (err) { console.error(err); json(res, 500, { error: 'Something went wrong. Please try again.' }); }

diff --git a/lib/routes/links.js b/lib/routes/links.js
@@ -1,6 +1,8 @@
 import crypto from 'node:crypto';
 import { json, body, db, getUser, isActive, DEMO, query, monthKeys } from '../util.js';
 import { activity } from '../../public/js/activity.js';
+import { clientEmail } from './ask.js';
+import { smtpSend, origin } from '../util.js';
 // Personal links: each client gets their own link with their name and neighbourhood. It updates itself every month.
 // GET ?days=7|30|365: the agent's links, each with its Client activity (how active, opens, reading time, sections, what they looked at),
 // plus totals for the general link. POST: create (optionally for one month), delete, or turn the weekly email on/off.
@@ -13,6 +15,8 @@ export default async function handler(req, res) {
     if (!u) return json(res, 401, { error: 'Please sign in.' });
     const [p] = await db(`profiles?id=eq.${u.id}&select=id,plan,status,weekly_email`);
     if (req.method === 'GET') {
+      // Just the neighbourhood requests (for the red count on the Clients tab).
+      if (query(req).get('only') === 'requests') { let requests = []; try { requests = await db(`hood_requests?user_id=eq.${u.id}&status=eq.new&select=id&limit=99`); } catch {} return json(res, 200, { requests }); }
       const days = [7, 30, 365].includes(+query(req).get('days')) ? +query(req).get('days') : 30, now = Date.now();
       const since = new Date(now - Math.max(2 * days, 60) * 864e5).toISOString(), from = now - days * 864e5;
       const [items, views, visits, keys] = await Promise.all([db(`personal_links?user_id=eq.${u.id}&order=created_at.desc&limit=500`),
@@ -35,11 +39,25 @@ export default async function handler(req, res) {
       const rank = { hot: 0, some: 1, quiet: 2, none: 3 };
       items.sort((a, b) => rank[a.act.level] - rank[b.act.level] || (b.act.visits - a.act.visits) || String(b.act.lastAt || '').localeCompare(String(a.act.lastAt || '')));
       const general = visits.filter((v) => !v.link_id && new Date(v.started_at).getTime() >= from).length;
-      return json(res, 200, { items, days, general, weekly: p.weekly_email !== false, top: Object.entries(top).sort((a, b) => b[1] - a[1]).slice(0, 5) });
+      // Clients who asked about their neighbourhood (S5 Ask). The table may not exist yet: then there are none.
+      let requests = []; try { requests = await db(`hood_requests?user_id=eq.${u.id}&order=created_at.desc&limit=50`); } catch {}
+      return json(res, 200, { items, days, general, requests, weekly: p.weekly_email !== false, top: Object.entries(top).sort((a, b) => b[1] - a[1]).slice(0, 5) });
     }
     if (!isActive(p) || p.plan !== 'pro') return json(res, 402, { error: 'Personal links are part of Pro.' });
     const b = await body(req);
     if (b.action === 'delete') { await db(`personal_links?user_id=eq.${u.id}&id=eq.${encodeURIComponent(b.id || '')}`, { method: 'DELETE', prefer: 'return=minimal' }); return json(res, 200, { ok: true }); }
+    // A request from Clients (P10): send their link now, or mark it done.
+    if (b.action === 'request') {
+      const [r] = await db(`hood_requests?user_id=eq.${u.id}&id=eq.${encodeURIComponent(b.id || '')}`);
+      if (!r) return json(res, 404, { error: 'That request is gone.' });
+      if (b.do === 'done') { await db(`hood_requests?id=eq.${r.id}`, { method: 'PATCH', prefer: 'return=minimal', data: { status: 'done' } }); return json(res, 200, { request: { ...r, status: 'done' } }); }
+      let link = r.link_id ? (await db(`personal_links?id=eq.${r.link_id}`))[0] : null;
+      if (!link) [link] = await db('personal_links', { method: 'POST', data: { id: crypto.randomBytes(6).toString('base64url'), user_id: u.id, name: r.name, city: r.city, hood: r.hood, type: 'd' } });
+      const [me] = await db(`profiles?id=eq.${u.id}&select=name,slug,email,contact_email`);
+      await smtpSend([clientEmail(origin(req), me, r, link)]);
+      await db(`hood_requests?id=eq.${r.id}`, { method: 'PATCH', prefer: 'return=minimal', data: { status: 'sent', link_id: link.id } });
+      return json(res, 200, { request: { ...r, status: 'sent', link_id: link.id }, item: { ...link, looked: [], act: activity(link, [], [], {}) } });
+    }
     if (b.action === 'weekly') { await db(`profiles?id=eq.${u.id}`, { method: 'PATCH', prefer: 'return=minimal', data: { weekly_email: !!b.on } }); return json(res, 200, { ok: true }); }
     const row = { name: TXT(b.name, 60), city: TXT(b.city, 40), hood: TXT(b.hood, 60), type: ['d', 't', 'c'].includes(b.type) ? b.type : 'd', month: /^\d{4}-\d{2}$/.test(b.month || '') ? b.month : null };
     if (!row.name || !row.city || !row.hood) return json(res, 400, { error: 'Add the client name and their neighbourhood.' });

diff --git a/public/css/site.css b/public/css/site.css
@@ -513,3 +513,40 @@ body.oncreate>.nav{display:none}
 /* D10 Month settings */
 .mset .hint{margin:-2px 0 8px}
 @media (max-width:700px){.plf,.plf.plf6{grid-template-columns:1fr 1fr}.plf.plf6 #plm2{grid-column:1/-1}.plf select{min-width:0}}
+
+/* ===== Top tabs (Create report · Clients · Saved reports), P10 Clients, P11 Saved reports ===== */
+.dtabs{display:flex;gap:2px;align-self:stretch;margin:-1px 0}
+.dtabs button,.sn button{font:inherit;font-size:.95rem;font-weight:600;color:#55606e;background:none;border:0;border-bottom:2.5px solid transparent;padding:0 14px;cursor:pointer;display:flex;align-items:center;gap:7px;white-space:nowrap}
+.sn button{padding:14px 14px 12px}
+.dtabs button[aria-selected=true],.sn button[aria-selected=true]{color:#1d4fbf;border-bottom-color:#1d4fbf}
+.dtabs button:hover,.sn button:hover{color:#1d4fbf}
+.rqn{background:#d6452f;color:#fff;border-radius:10px;font-size:.7rem;font-weight:700;padding:1px 7px;line-height:1.5}
+.dbar .crumb{align-self:stretch}
+@media (max-width:700px){.dtabs button{padding:0 9px;font-size:.88rem}}
+.cpw,.sp{max-width:1180px;margin:0 auto;padding:26px clamp(16px,3vw,24px) 60px}
+.sp{max-width:760px}
+.cp h1,.sp h1{font-size:1.65rem;margin:0 0 4px}.cp-h p,.sp>p{margin:0 0 6px}
+.cp-cols{display:grid;grid-template-columns:minmax(0,1.6fr) minmax(0,1fr);gap:22px;align-items:start}
+@media (max-width:900px){.cp-cols{grid-template-columns:1fr}}
+.cp-l{display:flex;justify-content:space-between;font-size:.74rem;font-weight:700;color:#6b7380;letter-spacing:.05em;text-transform:uppercase;margin:22px 4px 8px}
+.cp-l span{color:#d6452f}
+.cp-card{background:#fff;border-radius:14px;overflow:hidden;border:1px solid #eceef2}
+.cp-empty{margin:0;padding:18px 20px;color:#6b7380;font-size:.9rem;line-height:1.5}
+.cp-note{margin:8px 4px 0}
+.rq{display:flex;align-items:center;gap:12px;padding:13px 18px;border-top:1px solid #eef0f4}.rq:first-child{border-top:0}
+.rq-d{width:9px;height:9px;border-radius:50%;background:#c3c8d0;flex:none}.rq-d.on{background:#d6452f}
+.rq-t{flex:1;min-width:0;font-size:.95rem;line-height:1.35}.rq-t small{display:block;color:#6b7380;font-size:.8rem;margin-top:3px}
+.rq .btn.sm{flex:none}.rq .btn.sm:not(.ghost){background:#1d4fbf;border-color:#1d4fbf;color:#fff}
+.rq-ok{color:#1a8f4e;font-weight:600;font-size:.88rem;white-space:nowrap}
+.rq-i{width:34px;height:34px;border-radius:9px;background:#eef3fc;color:#1d4fbf;display:grid;place-items:center;flex:none}
+.cpw .capb{width:auto;max-height:none;overflow:visible;box-shadow:none;border:1px solid #eceef2;border-radius:14px}
+.cpw .capb .plf{margin-top:0}
+.sr2{display:flex;align-items:center;gap:14px;width:100%;padding:15px 20px;border:0;border-top:1px solid #eef0f4;background:#fff;font:inherit;text-align:left;cursor:pointer;color:#1b2430}
+.sr2:first-child{border-top:0}.sr2:hover{background:#f7f9fc}
+.sr2-o{color:#1d4fbf;font-weight:600;font-size:.9rem}.sr2-c{color:#c3c8d0;font-size:1.4rem;line-height:1}
+@media (max-width:600px){.rq{flex-wrap:wrap}.rq .btn.sm{margin-left:21px}}
+.cpw,.sp,.cpw .capb{text-align:left}
+.cpw .cp-h{text-align:left}
+.cpw .capb .plf{display:grid;grid-template-columns:1fr 1fr;gap:8px}
+.cpw .capb .plf #pln{grid-column:1/-1}.cpw .capb .plf [data-plmake]{grid-column:1/-1}
+.cpw .ca-tb td,.cpw .ca-tb th{text-align:left}

diff --git a/lib/routes/exports.js b/lib/routes/exports.js
@@ -1,7 +1,7 @@
 import crypto from 'node:crypto';
 import { json, body, query, db, getUser, isActive, cleanTheme, cleanShow, monthKey, DEMO } from '../util.js';
 // The agent's history: every link, email, PDF and image they create.
-const KINDS = ['link', 'email', 'pdf', 'post', 'story', 'caption'];
+const KINDS = ['link', 'email', 'pdf', 'post', 'story', 'caption', 'save'];
 // Postgres reorders JSON keys, so compare with keys sorted.
 const canon = (v) => (v && typeof v === 'object' ? `{${Object.keys(v).sort().map((k) => `${k}:${canon(v[k])}`).join(',')}}` : JSON.stringify(v ?? null));
 const same = (a, b) => canon(a || {}) === canon(b || {});
